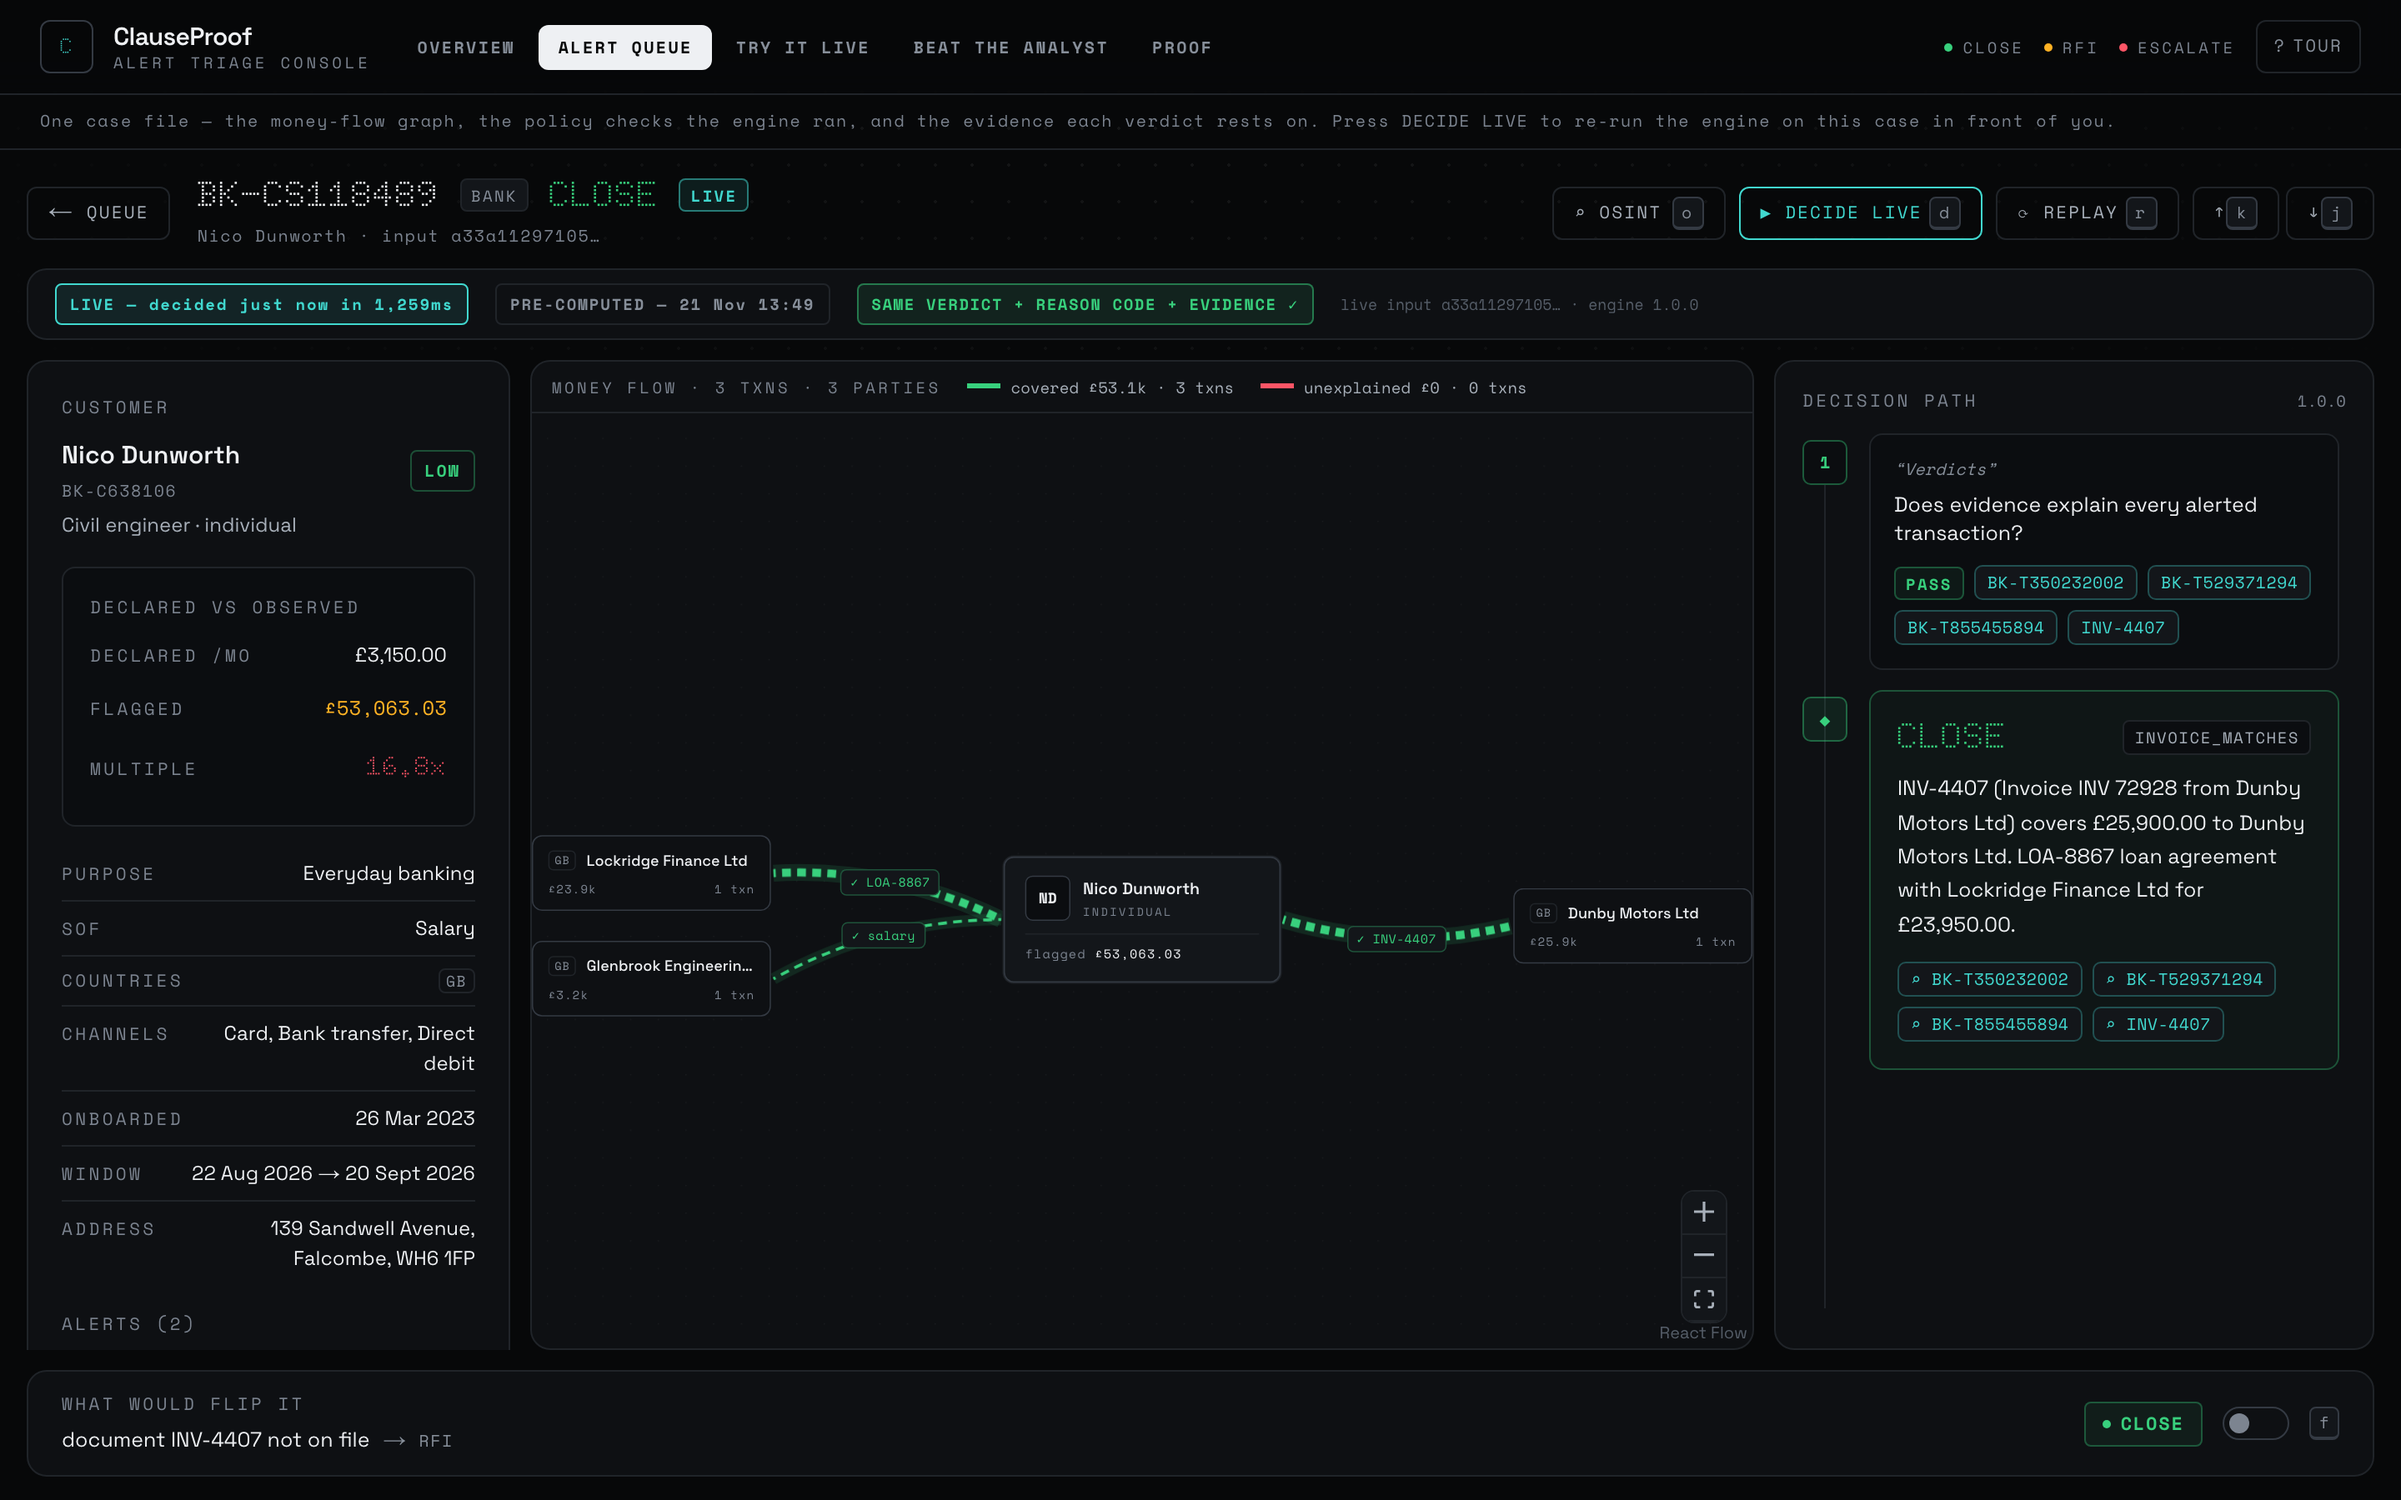
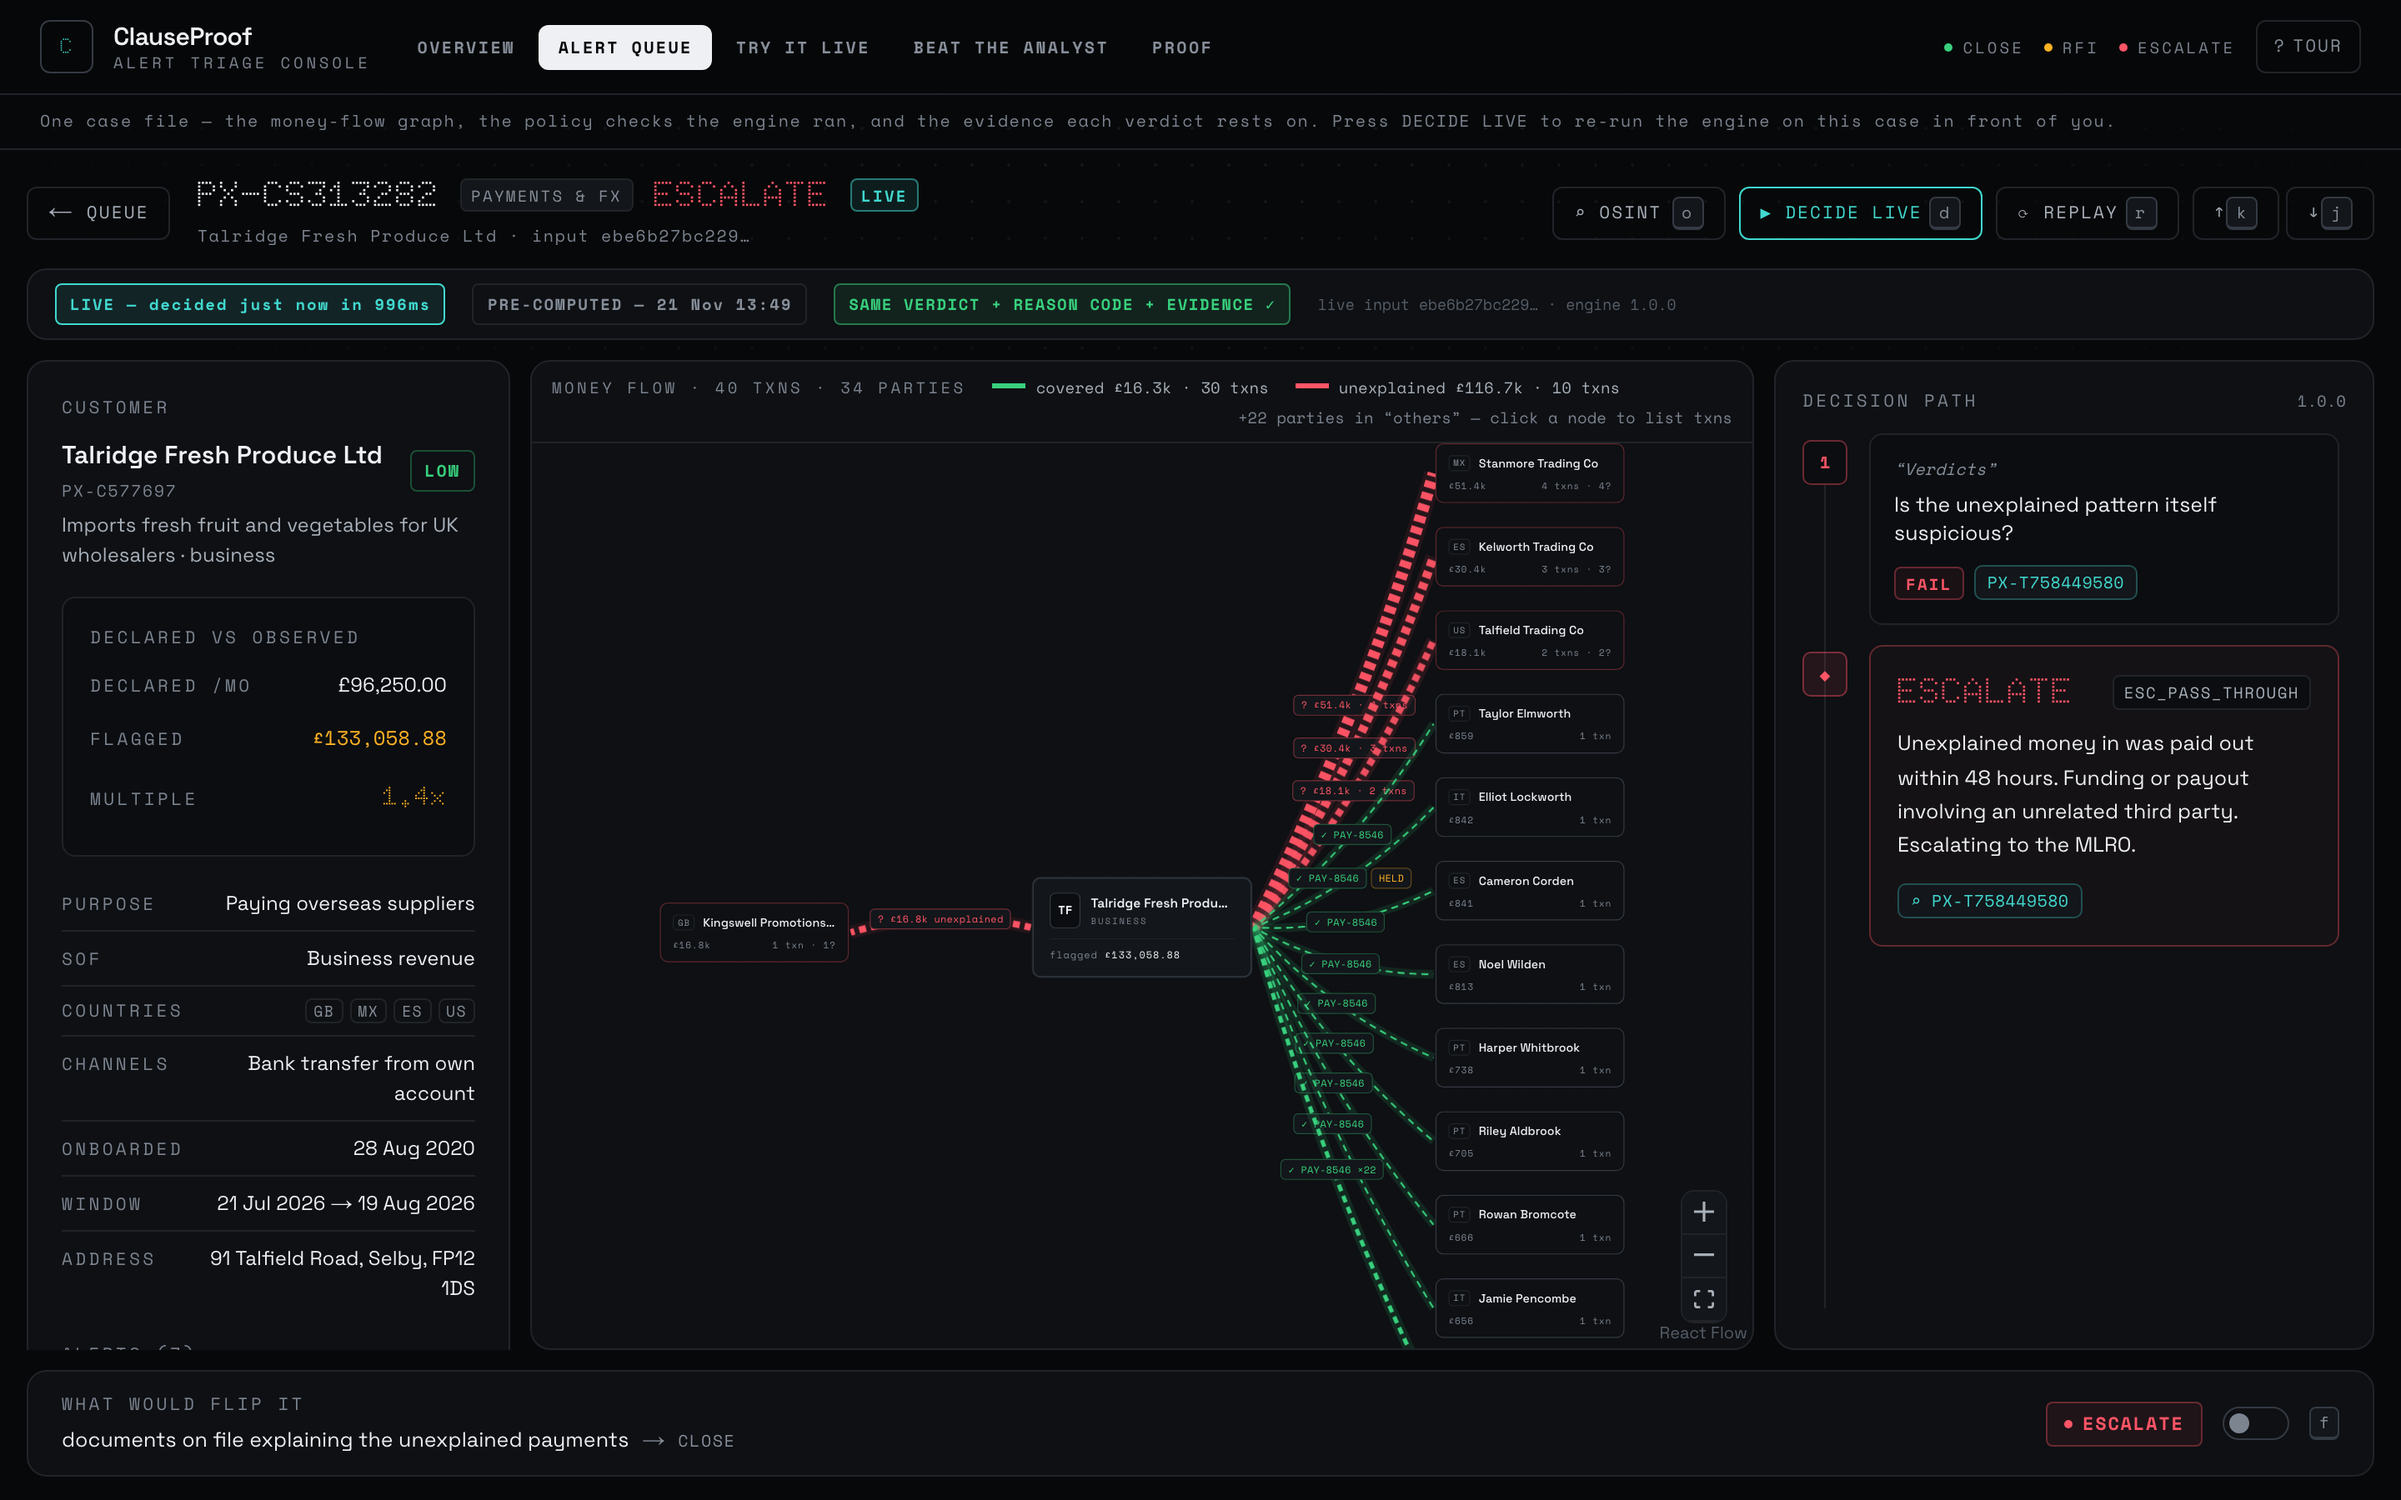
polish: verdict filters on mobile, decide-live shot on multi-check case, proof.md smoke count
Generated with [Devin](https://devin.ai)

diff --git a/web/components/QueueClient.tsx b/web/components/QueueClient.tsx
@@ -266,7 +266,7 @@ export default function QueueClient({
         </div>
         <div className="ml-auto flex items-center gap-2">
           {tab !== DEMO_TAB && (
-            <div className="hidden items-center overflow-hidden rounded-md border border-line-2 md:flex" role="group" aria-label="Filter by verdict">
+            <div className="flex items-center overflow-hidden rounded-md border border-line-2" role="group" aria-label="Filter by verdict">
               <button
                 onClick={() => setVerdictFilter(null)}
                 className={`mono px-2.5 py-1.5 text-[9.5px] font-bold tracking-[0.1em] transition-colors ${

diff --git a/docs/proof.md b/docs/proof.md
@@ -58,12 +58,14 @@ identical=True runs=5 unique_hashes=1
 
 ## 4. End-to-end smoke — `scripts/smoke.sh`
 
-18 checks against the running app (home, 4 institution queues, one case page
-per verdict, evidence API, live 5× proof, 4 scripted plays through the real
-engine, stage page, OSINT graceful-offline, LAN play URL):
+21 checks against the running app (overview, queue and proof pages, 4
+institution queues, one case page per verdict, a live one-case engine run via
+`/api/decide` compared with the stored verdict, evidence API, live 5× proof,
+4 scripted plays through the real engine, stage page, OSINT
+graceful-offline, LAN play URL):
 
 ```
-SMOKE: ALL 18 CHECKS PASSED
+SMOKE: ALL 21 CHECKS PASSED
 ```
 
 ## 5. Verdict split on the 4,000 development cases
